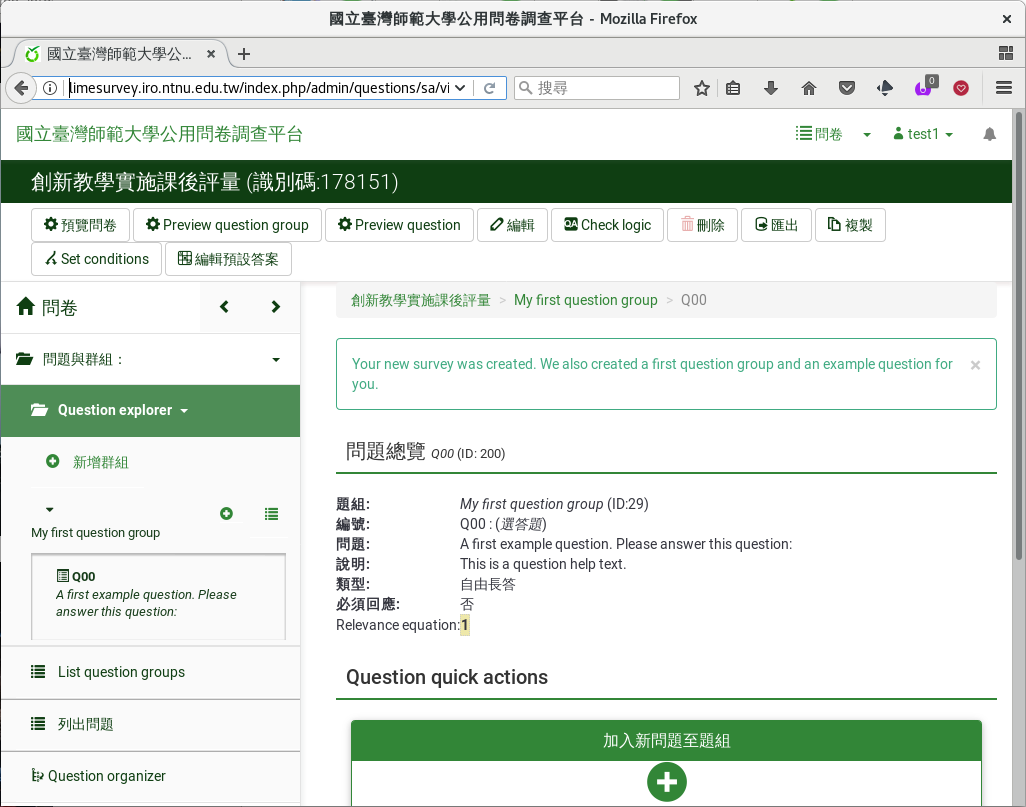
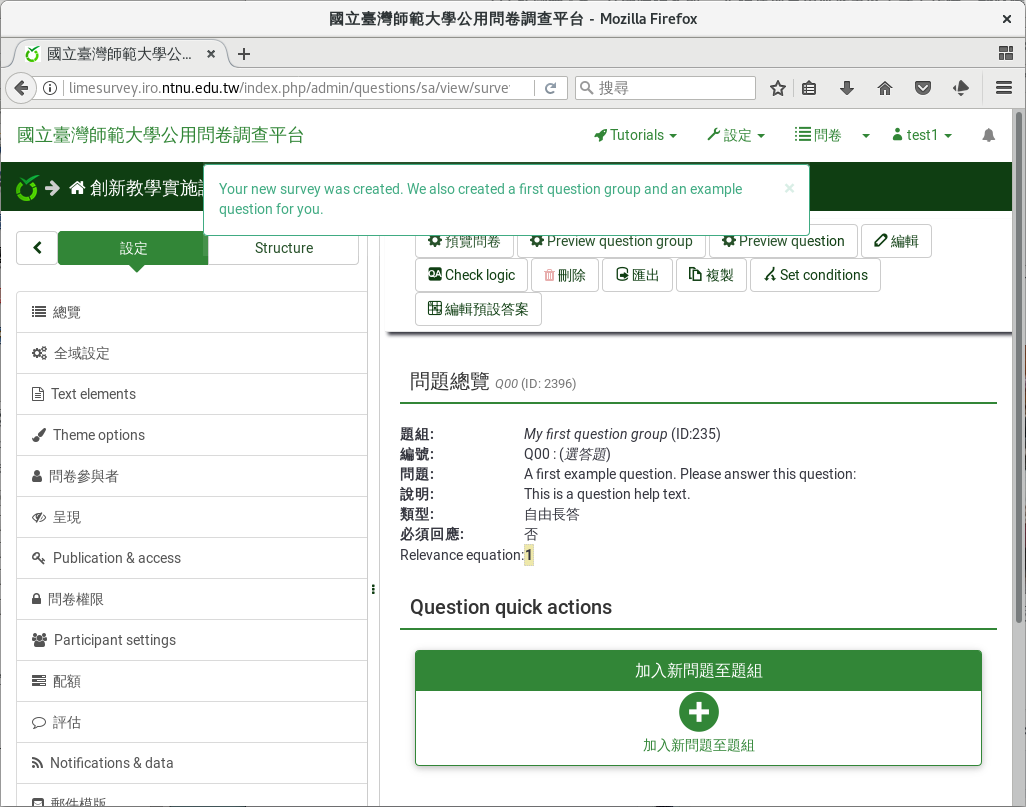
* Updated for LimeSurvey 3 from Chapter 1 to Chapter 3-2-3.

diff --git a/03-02-03-gender.rst b/03-02-03-gender.rst
@@ -1,23 +1,16 @@
 第一個問題：性別
 ################
 
-從左邊點選「列出問題」後，從左上方的
-「 :index:`增加新問題 <pair: 問題; 建立>` 」點進去，建立新問題，就會進
-入問卷問題的編輯頁面。
+在左側欄的問卷結構中，點選上方的
+「 :index:`增加新問題 <pair: 問題; 建立>` 」，就會進入問題的編輯頁面。
 
 .. figure:: images/03-02-03-gender-01.png
-    :alt: 點選左邊的「列出問題」
+    :alt: 點選左側欄問卷結構上方的「增加新問題」
     :scale: 60%
 
-    點選左邊的「列出問題」
+    點選左側欄問卷結構上方的「增加新問題」
 
 .. figure:: images/03-02-03-gender-02.png
-    :alt: 點選左上方的「增加新問題」
-    :scale: 60%
-
-    點選左上方的「增加新問題」
-
-.. figure:: images/03-02-03-gender-03.png
     :alt: 問卷問題編輯頁面
     :scale: 60%
 
@@ -26,7 +19,7 @@
 「編號」是題目的代號，須由A-Z英文字母開始，可以用A-Z英文字母或0-9數字
 ，不可重複。一般我們用q01代表第一題，q02代表第二題，依此類推。
 
-.. figure:: images/03-02-03-gender-03-01.png
+.. figure:: images/03-02-03-gender-02-01.png
     :alt: 問題的編號
     :scale: 60%
 
@@ -35,44 +28,50 @@
 在「問題」欄位，填上實際的問卷題目。第一題我們先問填答者的性別，請填
 上「1.請選擇您的性別」。
 
-.. figure:: images/03-02-03-gender-03-02.png
-    :alt: 問題的內容
+.. figure:: images/03-02-03-gender-02-02.png
+    :alt: 問題的主文
     :scale: 60%
 
-    問題的內容
+    問題的主文
 
-「題目類型」拉下來，會有各種題型可選擇。滑鼠移動到題型，還會有題型預
- 覽。
+點按「題目類型」，會列出各種題型可選擇。點選題型，會有題型預覽。
 
-.. figure:: images/03-02-03-gender-03-03-01.png
-    :alt: 下拉式列表題型預覽
+.. figure:: images/03-02-03-gender-02-03-01.png
+    :alt: 題型選擇
     :scale: 60%
 
-    下拉式列表題型預覽
+    題型選擇
 
-.. figure:: images/03-02-03-gender-03-03-02.png
-    :alt: 單選題型預覽
+.. figure:: images/03-02-03-gender-02-03-02.png
+    :alt: 下拉式列表題型
     :scale: 60%
 
-    單選題型預覽
+    下拉式列表題型
 
-.. figure:: images/03-02-03-gender-03-03-03.png
-    :alt: 李克特氏五點量表題型預覽
+.. figure:: images/03-02-03-gender-02-03-03.png
+    :alt: 單選題型
     :scale: 60%
 
-    李克特氏五點量表題型預覽
+    單選題型
 
-這一題我們題型選「 :index:`性別 <題型; 性別>` 」。
-
-.. figure:: images/03-02-03-gender-03-03.png
-    :alt: 性別題型預覽
+.. figure:: images/03-02-03-gender-02-03-04.png
+    :alt: 李克特氏五點量表題型
     :scale: 60%
 
-    性別題型預覽
+    李克特氏五點量表題型
 
-基本資料都是必答題，請點選開啟「必須回應」。按右上角「儲存並關閉」。
+這一題我們題型選「其他類型問題」裏的「 :index:`性別 <題型; 性別>` 」。
+按右下方的「Select this」確定題型。
 
-.. figure:: images/03-02-03-gender-03.png
+.. figure:: images/03-02-03-gender-02-03.png
+    :alt: 選擇性別題型
+    :scale: 60%
+
+    選擇性別題型
+
+基本資料都是必答題，請點選開啟「必須回應」。按右上角「儲存」。
+
+.. figure:: images/03-02-03-gender-02.png
     :alt: 問卷問題編輯頁面
     :scale: 60%
 
@@ -81,13 +80,13 @@
 建立好問題後，我們可以按上面的「Preview Question」，
 :index:`預覽 <預覽; 問題>` 一下我們的問題長什麼樣子。
 
-.. figure:: images/03-02-03-gender-04.png
+.. figure:: images/03-02-03-gender-03.png
     :alt: 點選「Preview Question」
     :scale: 60%
 
     點選「Preview Question」
 
-.. figure:: images/03-02-03-gender-05.png
+.. figure:: images/03-02-03-gender-04.png
     :alt: 性別題型預覽
     :scale: 60%
 

diff --git a/03-02-01-edit-group.rst b/03-02-01-edit-group.rst
@@ -1,21 +1,23 @@
 修改範例題組名稱
 ################
 
-在問卷編輯頁面上，點選左邊「List question groups」，進入題組列表。在右
-邊題組列表，找到預設範例題組「My First Question Group」，按右邊的鉛筆
-按鈕 :index:`編輯群組 <pair: 題組; 編輯>` 。
+在問卷編輯頁面上，點選左側欄上方的「Structure」，在左側欄顯示問卷架構
+。點選左側欄的預設範例題組「My First Question Group」，進入題組頁面。
 
 .. figure:: images/03-02-01-edit-group-01.png
-    :alt: 左側的題組列表
+    :alt: 從左側欄的問卷架構，選擇要編輯的題組
     :scale: 60%
 
-    左側的題組列表
+    從左側欄的問卷架構，選擇要編輯的題組
+
+在題組頁面中，按上方的「 :index:`編輯目前題組 <pair: 題組; 編輯>` 」
+編輯。
 
 .. figure:: images/03-02-01-edit-group-02.png
-    :alt: 按鉛筆按鈕編輯題組
+    :alt: 題組頁面，按「編輯目前題組」編輯
     :scale: 60%
 
-    按鉛筆按鈕編輯題組
+    題組頁面，按「編輯目前題組」編輯
 
 在標題處填上「壹、基本資料」，然後按右上角的「儲存並關閉」。你也可以在
 描述的欄位裡，撰寫一些說明。
@@ -25,4 +27,3 @@
     :scale: 60%
 
     題組編輯畫面
-

diff --git a/03-02-02-del-question.rst b/03-02-02-del-question.rst
@@ -2,18 +2,26 @@
 ############
 
 在建立自己的問題前，我們先 :index:`刪除範例問題 <pair: 問題; 刪除>` 。
-在左邊點選要刪除的範例問題，出現的頁面上，點選右上角的「刪除」刪除。
+在左側欄的問卷結構中，點選題組右邊向下三角形，展開這一組的問題。
 
 .. figure:: images/03-02-02-del-question-01.png
-    :alt: 點選左邊要刪除的範例問題
+    :alt: 點選左側欄題組右邊向下三角形，展開題組的問題
     :scale: 60%
 
-    點選左邊要刪除的範例問題
+    點選左側欄題組右邊向下三角形，展開題組的問題
+
+點選要刪除的範例問題。
 
 .. figure:: images/03-02-02-del-question-02.png
-    :alt: 點選右上角的「刪除」刪除
+    :alt: 點選要刪除的範例問題
     :scale: 60%
 
-    點選右上角的「刪除」刪除
+    點選要刪除的範例問題
 
+在問題頁面上，點選上方的「刪除」刪除。
 
+.. figure:: images/03-02-02-del-question-03.png
+    :alt: 在問題頁面上，點選上方的「刪除」刪除
+    :scale: 60%
+
+    在問題頁面上，點選上方的「刪除」刪除

diff --git a/03-01-new.rst b/03-01-new.rst
@@ -11,8 +11,8 @@
     建立問卷的畫面
 
 在這裏我們填上問卷標題名稱（例如：「創新教學實施課後評量」），先點選
-「Sample Questions」建立範例題，然後點按右上角「儲存並關閉」。
-這樣就建好了一份簡單的問卷。
+「Create example question group and question?」建立範例題，然後點按右
+上角「儲存」。這樣就建好了一份簡單的問卷。
 
 .. figure:: images/03-01-new-survey-done.png
     :alt: 建立好的新問卷
@@ -30,4 +30,6 @@
     新問卷的預覽
 
 可以看到現在問卷只有一題，就是剛才建立的範例題「A first example
-question.  Please answer this question.」。
+question.  Please answer this question.」。問卷上方會以醒目提示「This
+survey is currently not active. You will not be able to save your
+responses.」，提醒你這只是預覽而已，答案不會存下來。
